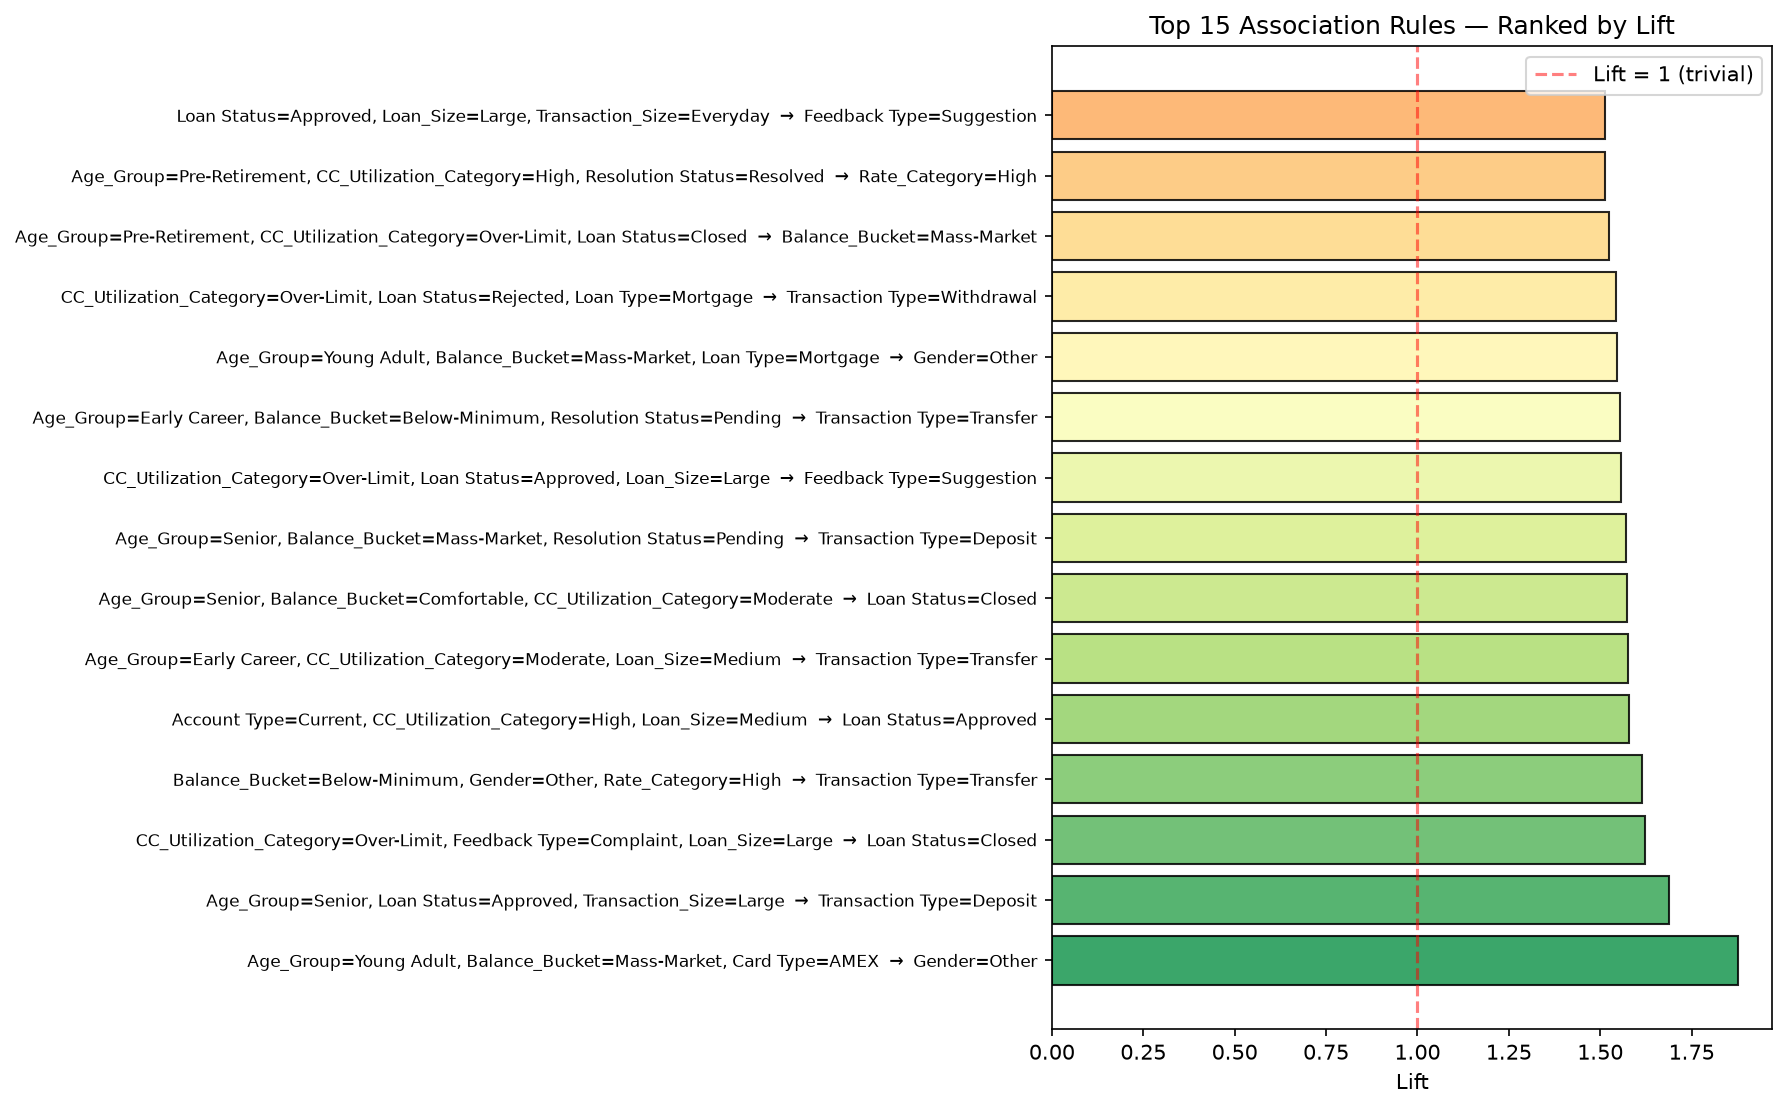
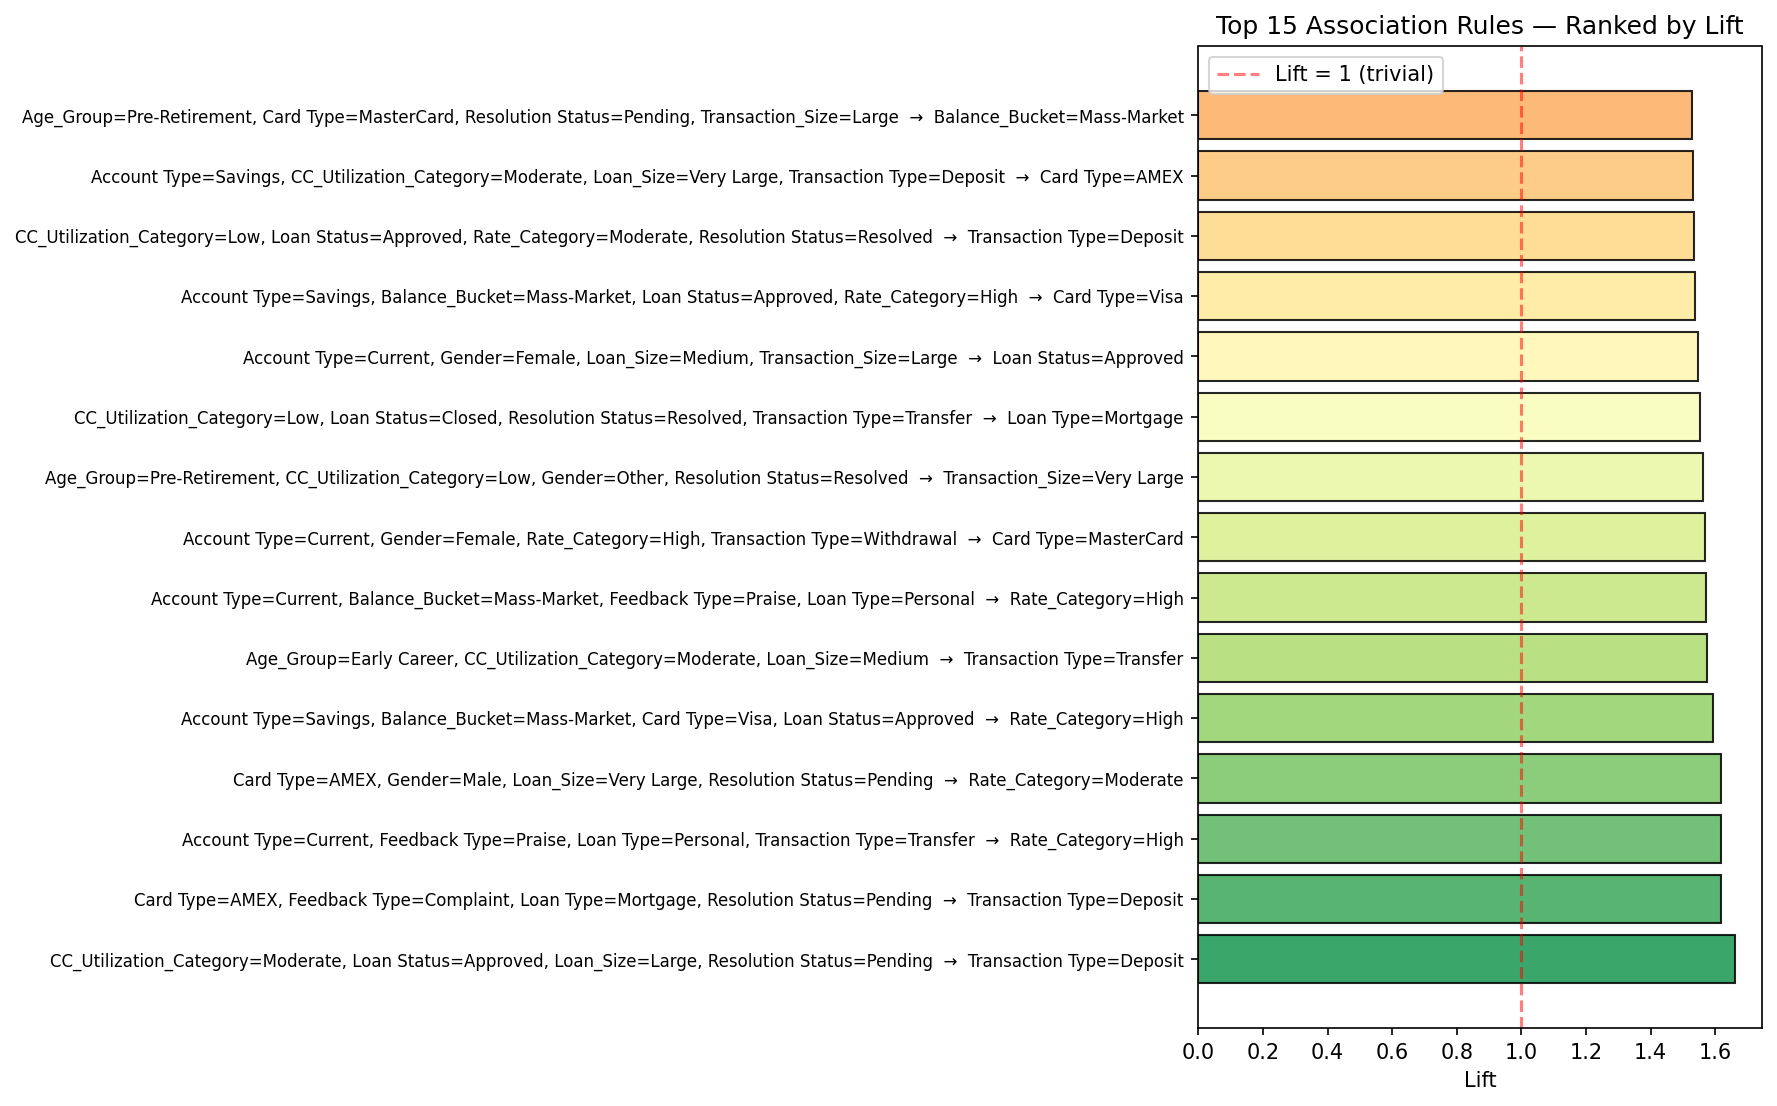
Phase 3 ARM: drop max_len cap, auto-tune support floor (82 non-trivial rules, lift 1.40-1.66)

diff --git a/src/arm.py b/src/arm.py
@@ -52,8 +52,8 @@ MIN_LIFT       = 1.4    # hanya ambil rules yang non-trivial
 # MIN_CONFIDENCE = 0.5
 # Rule harus benar pada minimal separuh kasus antecedent → consequent.
 
-# MIN_LIFT = 1.2
-# Lift > 1 berarti hubungan non-trivial; 1.2 berarti setidaknya 20% lebih kuat dari random.
+# MIN_LIFT = 1.4
+# Lift > 1 berarti hubungan non-trivial; 1.4 berarti setidaknya 40% lebih kuat dari random.
 
 # Jika jumlah rule terlalu sedikit, threshold support dapat diturunkan secara bertahap, 
 # tetapi tetap harus dijaga agar rule tidak menjadi terlalu lemah atau tidak meaningful.
@@ -135,8 +135,7 @@ def find_frequent_itemsets(df_encoded, min_support=MIN_SUPPORT):
     frequent_itemsets = apriori(
         df_encoded,
         min_support=min_support,
-        use_colnames=True,
-        max_len=4       # maksimal 4 item per itemset
+        use_colnames=True       # tanpa max_len → Apriori bebas tentukan panjang itemset
     )
     frequent_itemsets['length'] = frequent_itemsets['itemsets'].apply(len)
 
@@ -174,7 +173,7 @@ def find_frequent_itemsets(df_encoded, min_support=MIN_SUPPORT):
 # → Lift < 1 : A dan B berkorelasi negatif
 #
 # Filter yang digunakan:
-# - Lift > 1.2   : hanya rules yang benar-benar non-trivial
+# - Lift > 1.4   : hanya rules yang benar-benar non-trivial
 # - Confidence > 0.5 : minimal 50% akurasi rule
 # - Buang rules trivial (antecedent = consequent)
 # ════════════════════════════════════════════════════════════
@@ -247,7 +246,7 @@ def auto_tune_support(df_encoded, target_rules=10,
         print(f"\nMencoba min_support = {sup}...")
         frequent_itemsets = apriori(
             df_encoded, min_support=sup,
-            use_colnames=True, max_len=4
+            use_colnames=True
         )
         if len(frequent_itemsets) == 0:
             continue
@@ -265,7 +264,7 @@ def auto_tune_support(df_encoded, target_rules=10,
     print("⚠️  Tidak bisa mencapai target rules. Pakai min_support terkecil.")
     frequent_itemsets = apriori(
         df_encoded, min_support=0.005,
-        use_colnames=True, max_len=4
+        use_colnames=True
     )
     rules = association_rules(
         frequent_itemsets, metric='lift', min_threshold=min_lift